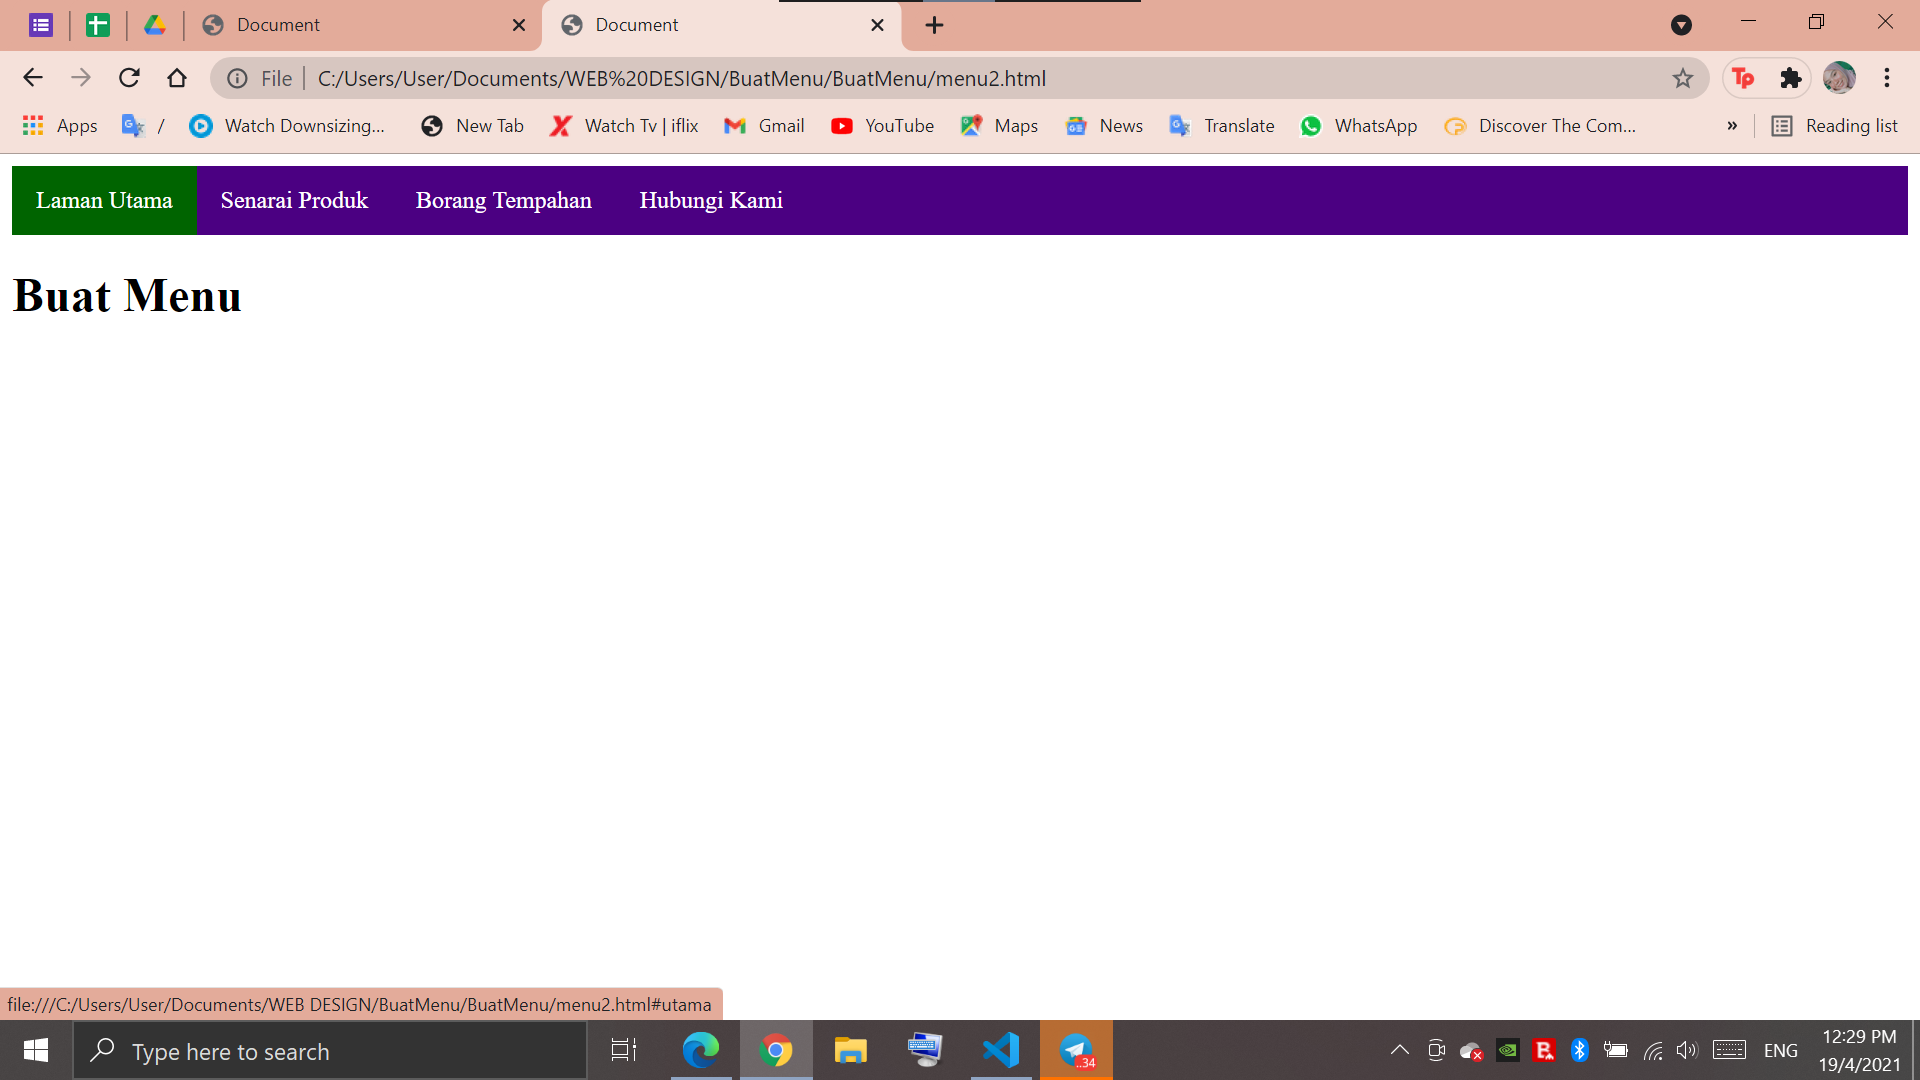
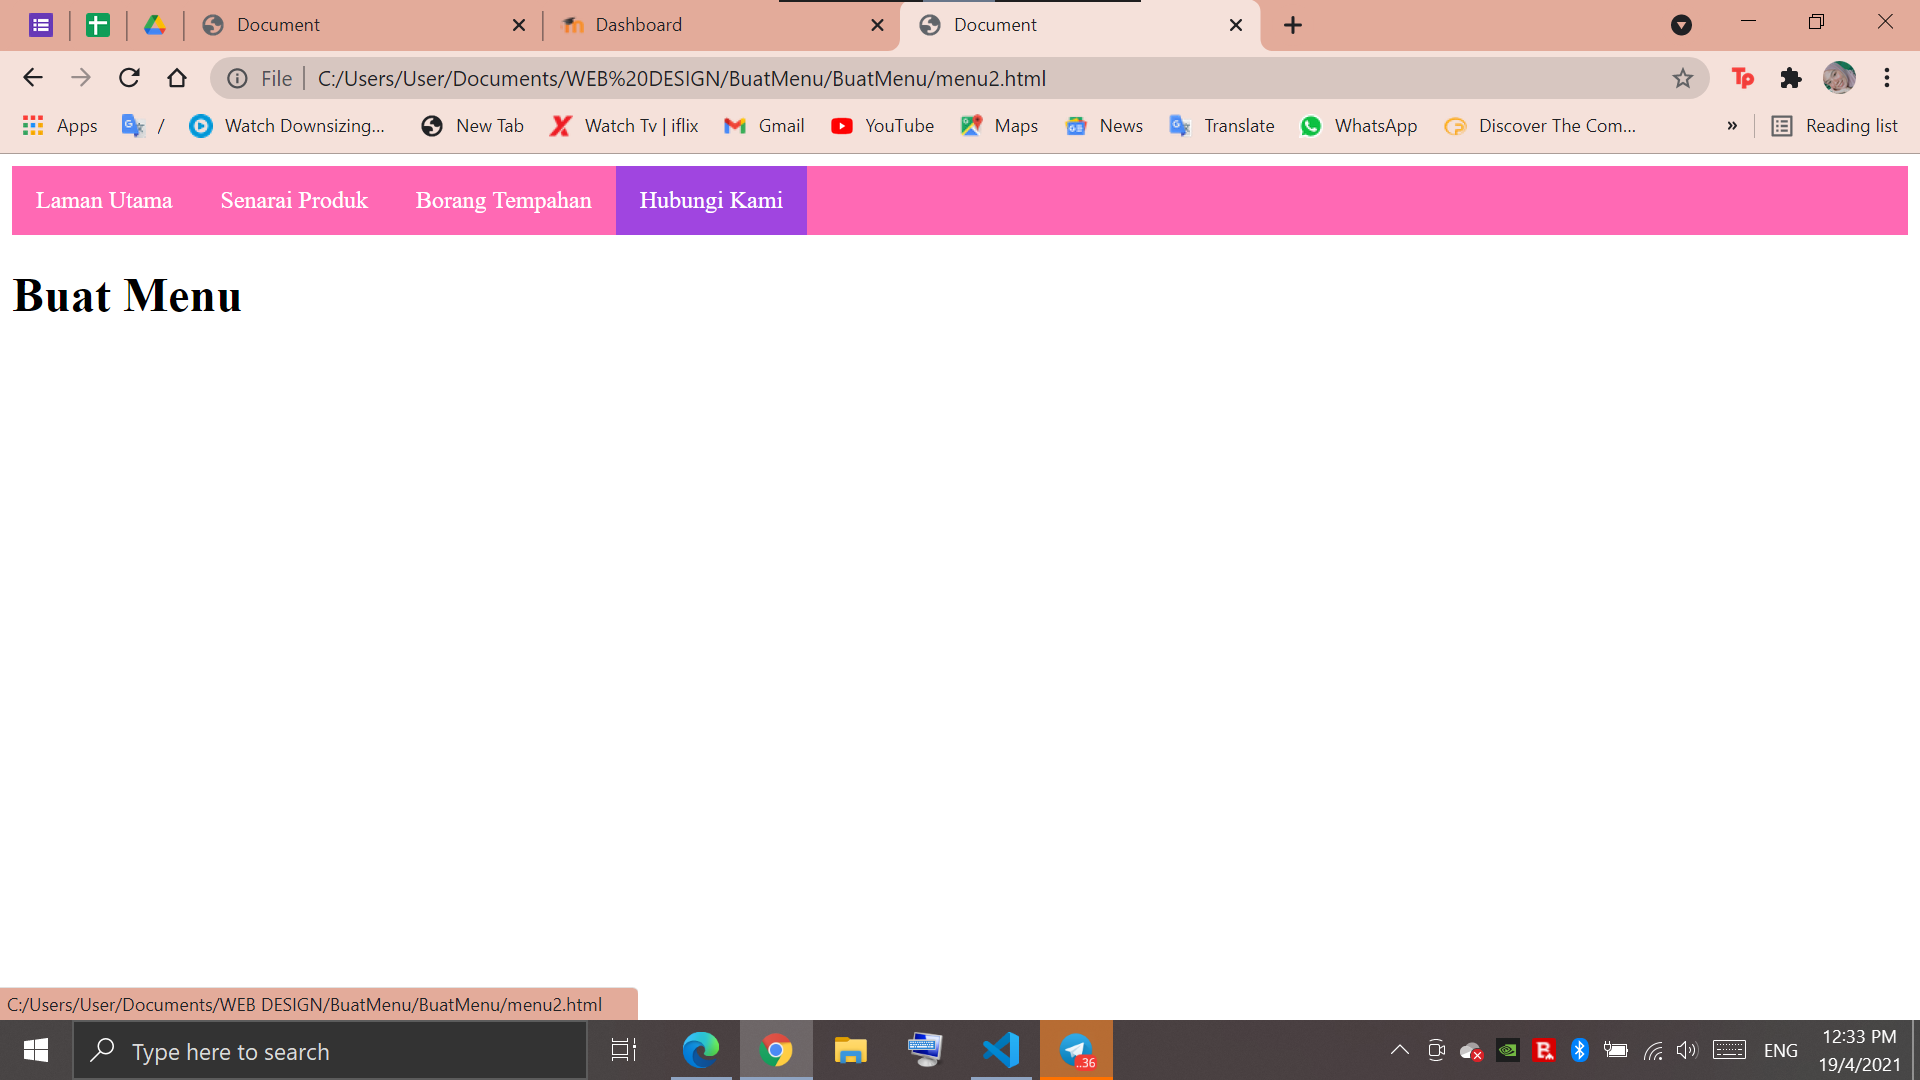
new

Changed region(s): [[0.0, 0.1528, 1.0, 0.2444], [0.2812, 0.0, 0.6562, 0.0611], [0.0, 0.9167, 0.375, 0.9472]]

diff --git a/menu2.html b/menu2.html
@@ -12,7 +12,7 @@
     margin: 0;
     padding: 0;
     overflow: hidden;
-    background-color: indigo;
+    background-color: hotpink;
 }
 .menu_ul li {
     float: left;
@@ -25,7 +25,7 @@
     text-decoration: none;
 }
 .menu_ul li a:hover {
-    background-color: darkgreen;
+    background-color: rgb(160, 69, 224);
 }  
 </style>
 <body>
